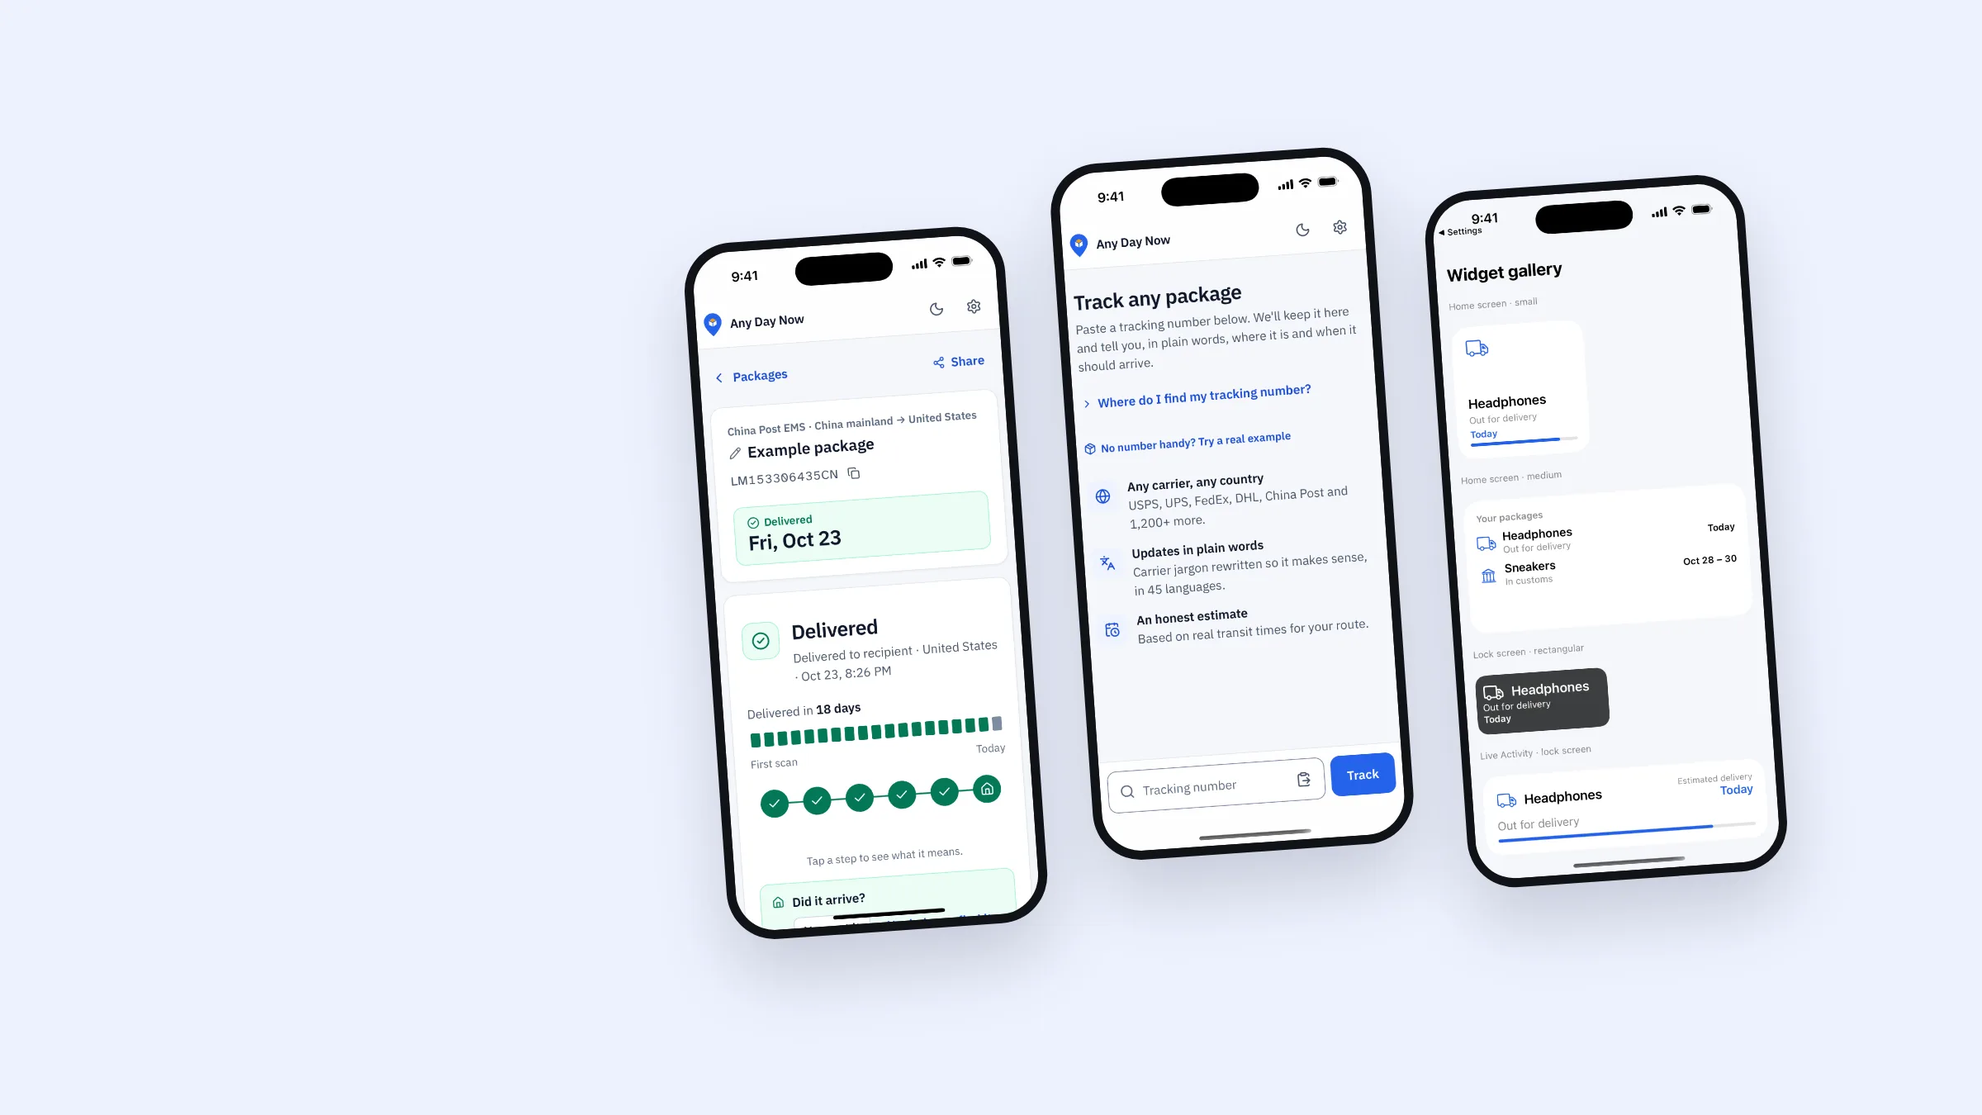
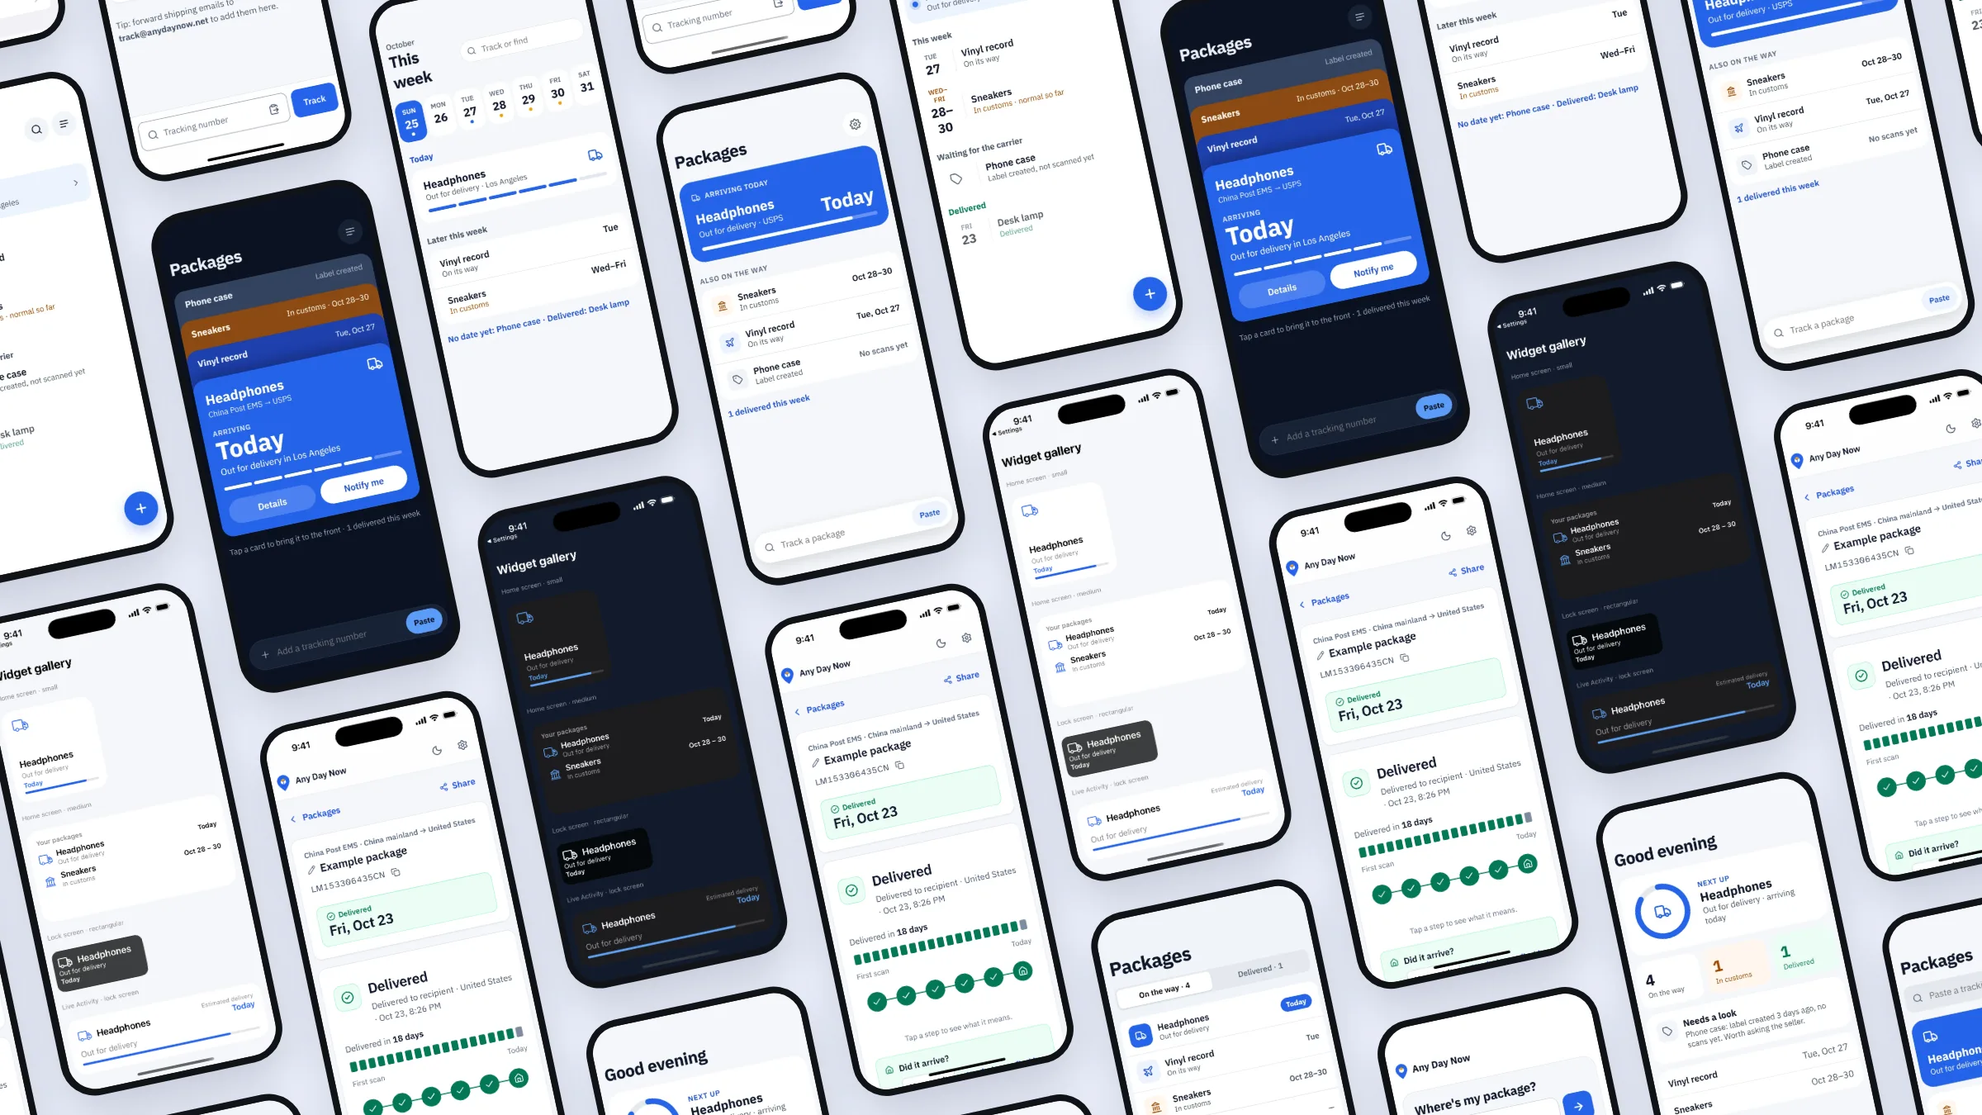
Embed the published FlexiDoc demo and make every cover a tilted wall of screens

diff --git a/work/flexidoc/index.html b/work/flexidoc/index.html
@@ -7,7 +7,7 @@
 <meta name="description" content="How I designed FlexiDoc, an appointment scheduling app for people with agoraphobia: research, personas, empathy maps, wireframes, IA, journey mapping and final screens.">
 <meta property="og:title" content="FlexiDoc case study, Stevie McLane">
 <meta property="og:description" content="How I designed FlexiDoc, an appointment scheduling app for people with agoraphobia: research, personas, empathy maps, wireframes, IA, journey mapping and final screens.">
-<meta property="og:image" content="https://steviemclane.com/assets/img/flexidoc/cover.webp?v=2">
+<meta property="og:image" content="https://steviemclane.com/assets/img/flexidoc/cover.webp?v=3">
 <meta name="theme-color" content="#0b0a10">
 <link rel="icon" type="image/png" sizes="32x32" href="/images/favicon-32.png?v=2">
 <link rel="icon" type="image/png" sizes="16x16" href="/images/favicon-16.png?v=2">
@@ -45,7 +45,7 @@
 
 <main id="main">
   <section class="case-hero">
-    <div class="case-bg cover-flexidoc" aria-hidden="true"><img src="/assets/img/flexidoc/hero-bg.webp?v=2" alt="" width="2400" height="1350" fetchpriority="high"></div>
+    <div class="case-bg cover-flexidoc" aria-hidden="true"><img src="/assets/img/flexidoc/hero-bg.webp?v=3" alt="" width="2400" height="1350" fetchpriority="high"></div>
     <div class="wrap case-hero-inner">
     <a class="back-link" href="/#work"><span aria-hidden="true">&larr;</span> All work</a>
     <h1 class="case-title" data-reveal="load">FlexiDoc</h1>
@@ -389,7 +389,7 @@
       </div>
     </section>
 
-    <!-- 8. Interactive demo (Figma Make; Figma blocks framing, so it opens in a new tab) -->
+    <!-- 8. Interactive demo (published Figma Make site, embedded) -->
     <section class="chapter" id="demo" aria-labelledby="h-demo">
       <div class="chapter-head">
         <div>
@@ -397,14 +397,16 @@
           <h2 id="h-demo" data-reveal="lines">Try it yourself</h2>
         </div>
         <div class="prose" data-reveal="text">
-          <p>Static screens only show so much, so I rebuilt the calendar as an interactive prototype in Figma Make. Flip through the months, tap around the calendar, and try the plus button and the notes field the way a patient would.</p>
-          <p><a class="text-link" href="https://www.figma.com/make/dKmPBFl6OA0ESM7iJeDsq2/Design-Calendar-Personal-Planner?fullscreen=1" target="_blank" rel="noopener">Open the interactive demo<span class="visually-hidden"> (opens in a new tab)</span> <span aria-hidden="true">&nearr;</span></a></p>
+          <p>Static screens only show so much, so I rebuilt the calendar as an interactive prototype in Figma Make. It runs right here: flip through the months, tap around the calendar, and try the plus button and the notes field the way a patient would.</p>
+          <p><a class="text-link" href="https://marsh-stove-48895407.figma.site" target="_blank" rel="noopener">Open the demo full screen<span class="visually-hidden"> (opens in a new tab)</span> <span aria-hidden="true">&nearr;</span></a></p>
         </div>
       </div>
-      <a class="demo-card" href="https://www.figma.com/make/dKmPBFl6OA0ESM7iJeDsq2/Design-Calendar-Personal-Planner?fullscreen=1" target="_blank" rel="noopener" data-reveal="wipe">
-        <img src="/assets/img/flexidoc/demo-poster.webp" alt="The FlexiDoc calendar prototype on an iPhone, showing November with an Upcoming list and a Notes field" width="808" height="1660" loading="lazy" decoding="async">
-        <span class="demo-cta">Open the demo <span aria-hidden="true">&nearr;</span></span>
-      </a>
+      <figure class="demo-card" data-reveal="wipe">
+        <div class="demo-phone">
+          <iframe src="https://marsh-stove-48895407.figma.site" title="FlexiDoc interactive calendar prototype" loading="lazy"></iframe>
+        </div>
+        <figcaption class="asset-caption">Built in Figma Make. Everything inside the phone is interactive.</figcaption>
+      </figure>
     </section>
 
     <!-- 9. Final presentation -->
@@ -457,14 +459,14 @@
     <ul class="more-grid" data-reveal="stack">
       <li>
         <a class="more-link" href="/work/any-day-now/">
-          <div class="work-media cover-anydaynow"><img src="/assets/img/anydaynow/cover.webp?v=2" alt="" width="1600" height="1100" loading="lazy" decoding="async"></div>
+          <div class="work-media cover-anydaynow"><img src="/assets/img/anydaynow/cover.webp?v=3" alt="" width="1600" height="1100" loading="lazy" decoding="async"></div>
           <h3>Any Day Now <span aria-hidden="true">&rarr;</span></h3>
           <p>A package tracker for web, iOS and Android</p>
         </a>
       </li>
       <li>
         <a class="more-link" href="/work/sld/">
-          <div class="work-media cover-sld"><img src="/assets/img/sld/cover.webp?v=2" alt="" width="1600" height="1100" loading="lazy" decoding="async"></div>
+          <div class="work-media cover-sld"><img src="/assets/img/sld/cover.webp?v=3" alt="" width="1600" height="1100" loading="lazy" decoding="async"></div>
           <h3>SLD <span aria-hidden="true">&rarr;</span></h3>
           <p>Brand identity and cover art for a musical artist</p>
         </a>

diff --git a/index.html b/index.html
@@ -7,7 +7,7 @@
 <meta name="description" content="Stevie McLane is a UX designer and creative director studying UX Design at the University of North Texas. Case studies: Any Day Now, FlexiDoc and SLD.">
 <meta property="og:title" content="Stevie McLane, UX Designer">
 <meta property="og:description" content="Case studies in UX research, product design and brand identity.">
-<meta property="og:image" content="https://steviemclane.com/assets/img/flexidoc/cover.webp?v=2">
+<meta property="og:image" content="https://steviemclane.com/assets/img/flexidoc/cover.webp?v=3">
 <meta name="theme-color" content="#0b0a10">
 <link rel="icon" type="image/png" sizes="32x32" href="/images/favicon-32.png?v=2">
 <link rel="icon" type="image/png" sizes="16x16" href="/images/favicon-16.png?v=2">
@@ -75,7 +75,7 @@
             <span class="work-cta">Read the case study</span>
           </div>
           <div class="work-media cover-anydaynow" data-reveal="wipe">
-            <img src="/assets/img/anydaynow/cover.webp?v=2" alt="Three Any Day Now screens on iPhone: a delivered package, the tracking form and the widget gallery" width="1600" height="1100" loading="lazy" decoding="async">
+            <img src="/assets/img/anydaynow/cover.webp?v=3" alt="A tilted wall of Any Day Now screens on iPhone, in light and dark mode" width="1600" height="1100" loading="lazy" decoding="async">
           </div>
         </a>
       </li>
@@ -88,7 +88,7 @@
             <span class="work-cta">Read the case study</span>
           </div>
           <div class="work-media cover-blendwright" data-reveal="wipe">
-            <img src="/assets/img/blendwright/cover.webp" alt="A Blendwright formula label listing ingredient groups with evidence grades, next to a jar filled in matching colored layers" width="1600" height="1100" loading="lazy" decoding="async">
+            <img src="/assets/img/blendwright/cover.webp?v=3" alt="A tilted wall of Blendwright formula labels and blend jars filled in colored layers" width="1600" height="1100" loading="lazy" decoding="async">
           </div>
         </a>
       </li>
@@ -101,7 +101,7 @@
             <span class="work-cta">Read the case study</span>
           </div>
           <div class="work-media cover-flexidoc" data-reveal="wipe">
-            <img src="/assets/img/flexidoc/cover.webp?v=2" alt="Three FlexiDoc screens on iPhone: finding a doctor, the appointment calendar and picking a time" width="1600" height="1100" loading="lazy" decoding="async">
+            <img src="/assets/img/flexidoc/cover.webp?v=3" alt="A tilted wall of FlexiDoc's final screens on iPhone" width="1600" height="1100" loading="lazy" decoding="async">
           </div>
         </a>
       </li>
@@ -114,7 +114,7 @@
             <span class="work-cta">Read the case study</span>
           </div>
           <div class="work-media cover-sld" data-reveal="wipe">
-            <img src="/assets/img/sld/cover.webp?v=2" alt="Three SLD single covers: Heartless, MADE 4 THIS and Bankroll" width="1600" height="1100" loading="lazy" decoding="async">
+            <img src="/assets/img/sld/cover.webp?v=3" alt="A tilted wall of SLD single covers" width="1600" height="1100" loading="lazy" decoding="async">
           </div>
         </a>
       </li>

diff --git a/work/blendwright/index.html b/work/blendwright/index.html
@@ -7,7 +7,7 @@
 <meta name="description" content="How I designed Blendwright, a custom protein powder site built around a formula label: research, design direction, a token-based design system and accessibility results.">
 <meta property="og:title" content="Blendwright case study, Stevie McLane">
 <meta property="og:description" content="How I designed Blendwright, a custom protein powder site built around a formula label: research, design direction, a token-based design system and accessibility results.">
-<meta property="og:image" content="https://steviemclane.com/assets/img/blendwright/cover.webp">
+<meta property="og:image" content="https://steviemclane.com/assets/img/blendwright/cover.webp?v=3">
 <meta name="theme-color" content="#0b0a10">
 <link rel="icon" type="image/png" sizes="32x32" href="/images/favicon-32.png?v=2">
 <link rel="icon" type="image/png" sizes="16x16" href="/images/favicon-16.png?v=2">
@@ -45,7 +45,7 @@
 
 <main id="main">
   <section class="case-hero">
-    <div class="case-bg cover-blendwright" aria-hidden="true"><img src="/assets/img/blendwright/hero-bg.webp" alt="" width="2400" height="1350" fetchpriority="high"></div>
+    <div class="case-bg cover-blendwright" aria-hidden="true"><img src="/assets/img/blendwright/hero-bg.webp?v=3" alt="" width="2400" height="1350" fetchpriority="high"></div>
     <div class="wrap case-hero-inner">
       <a class="back-link" href="/#work"><span aria-hidden="true">&larr;</span> All work</a>
       <h1 class="case-title" data-reveal="load">Blendwright</h1>
@@ -325,8 +325,8 @@
   <section class="more wrap" aria-labelledby="more-title">
     <h2 id="more-title" data-reveal="lines">Read more of my case studies</h2>
     <ul class="more-grid" data-reveal="stack">
-      <li><a class="more-link" href="/work/any-day-now/"><div class="work-media cover-anydaynow"><img src="/assets/img/anydaynow/cover.webp?v=2" alt="" width="1600" height="1100" loading="lazy" decoding="async"></div><h3>Any Day Now <span aria-hidden="true">&rarr;</span></h3><p>A package tracker in plain language, for web, iOS and Android</p></a></li>
-      <li><a class="more-link" href="/work/flexidoc/"><div class="work-media cover-flexidoc"><img src="/assets/img/flexidoc/cover.webp?v=2" alt="" width="1600" height="1100" loading="lazy" decoding="async"></div><h3>FlexiDoc <span aria-hidden="true">&rarr;</span></h3><p>Appointment scheduling for people with agoraphobia</p></a></li>
+      <li><a class="more-link" href="/work/any-day-now/"><div class="work-media cover-anydaynow"><img src="/assets/img/anydaynow/cover.webp?v=3" alt="" width="1600" height="1100" loading="lazy" decoding="async"></div><h3>Any Day Now <span aria-hidden="true">&rarr;</span></h3><p>A package tracker in plain language, for web, iOS and Android</p></a></li>
+      <li><a class="more-link" href="/work/flexidoc/"><div class="work-media cover-flexidoc"><img src="/assets/img/flexidoc/cover.webp?v=3" alt="" width="1600" height="1100" loading="lazy" decoding="async"></div><h3>FlexiDoc <span aria-hidden="true">&rarr;</span></h3><p>Appointment scheduling for people with agoraphobia</p></a></li>
     </ul>
   </section>
 </main>

diff --git a/work/any-day-now/index.html b/work/any-day-now/index.html
@@ -7,7 +7,7 @@
 <meta name="description" content="How I designed, built, audited and launched Any Day Now, a package tracker for web, iOS and Android: audits, concepts, native features and launch videos.">
 <meta property="og:title" content="Any Day Now case study, Stevie McLane">
 <meta property="og:description" content="How I designed, built, audited and launched Any Day Now, a package tracker for web, iOS and Android: audits, concepts, native features and launch videos.">
-<meta property="og:image" content="https://steviemclane.com/assets/img/anydaynow/cover.webp?v=2">
+<meta property="og:image" content="https://steviemclane.com/assets/img/anydaynow/cover.webp?v=3">
 <meta name="theme-color" content="#0b0a10">
 <link rel="icon" type="image/png" sizes="32x32" href="/images/favicon-32.png?v=2">
 <link rel="icon" type="image/png" sizes="16x16" href="/images/favicon-16.png?v=2">
@@ -45,7 +45,7 @@
 
 <main id="main">
   <section class="case-hero">
-    <div class="case-bg cover-anydaynow" aria-hidden="true"><img src="/assets/img/anydaynow/hero-bg.webp?v=2" alt="" width="2400" height="1350" fetchpriority="high"></div>
+    <div class="case-bg cover-anydaynow" aria-hidden="true"><img src="/assets/img/anydaynow/hero-bg.webp?v=3" alt="" width="2400" height="1350" fetchpriority="high"></div>
     <div class="wrap case-hero-inner">
       <a class="back-link" href="/#work"><span aria-hidden="true">&larr;</span> All work</a>
       <h1 class="case-title" data-reveal="load">Any Day Now</h1>
@@ -383,8 +383,8 @@
   <section class="more wrap" aria-labelledby="more-title">
     <h2 id="more-title" data-reveal="lines">Read more of my case studies</h2>
     <ul class="more-grid" data-reveal="stack">
-      <li><a class="more-link" href="/work/blendwright/"><div class="work-media cover-blendwright"><img src="/assets/img/blendwright/cover.webp" alt="" width="1600" height="1100" loading="lazy" decoding="async"></div><h3>Blendwright <span aria-hidden="true">&rarr;</span></h3><p>A custom nutrition builder that shows its work</p></a></li>
-      <li><a class="more-link" href="/work/flexidoc/"><div class="work-media cover-flexidoc"><img src="/assets/img/flexidoc/cover.webp?v=2" alt="" width="1600" height="1100" loading="lazy" decoding="async"></div><h3>FlexiDoc <span aria-hidden="true">&rarr;</span></h3><p>Appointment scheduling for people with agoraphobia</p></a></li>    </ul>
+      <li><a class="more-link" href="/work/blendwright/"><div class="work-media cover-blendwright"><img src="/assets/img/blendwright/cover.webp?v=3" alt="" width="1600" height="1100" loading="lazy" decoding="async"></div><h3>Blendwright <span aria-hidden="true">&rarr;</span></h3><p>A custom nutrition builder that shows its work</p></a></li>
+      <li><a class="more-link" href="/work/flexidoc/"><div class="work-media cover-flexidoc"><img src="/assets/img/flexidoc/cover.webp?v=3" alt="" width="1600" height="1100" loading="lazy" decoding="async"></div><h3>FlexiDoc <span aria-hidden="true">&rarr;</span></h3><p>Appointment scheduling for people with agoraphobia</p></a></li>    </ul>
     </ul>
   </section>
 </main>

diff --git a/work/sld/index.html b/work/sld/index.html
@@ -7,7 +7,7 @@
 <meta name="description" content="Brand identity, logo and cover art for the musical artist SLD: sketches, the final mark, a style guide and fifteen single covers you can play.">
 <meta property="og:title" content="SLD case study, Stevie McLane">
 <meta property="og:description" content="Brand identity, logo and cover art for the musical artist SLD: sketches, the final mark, a style guide and fifteen single covers you can play.">
-<meta property="og:image" content="https://steviemclane.com/assets/img/sld/cover.webp?v=2">
+<meta property="og:image" content="https://steviemclane.com/assets/img/sld/cover.webp?v=3">
 <meta name="theme-color" content="#0b0a10">
 <link rel="icon" type="image/png" sizes="32x32" href="/images/favicon-32.png?v=2">
 <link rel="icon" type="image/png" sizes="16x16" href="/images/favicon-16.png?v=2">
@@ -45,7 +45,7 @@
 
 <main id="main">
   <section class="case-hero">
-    <div class="case-bg cover-sld" aria-hidden="true"><img src="/assets/img/sld/hero-bg.webp?v=2" alt="" width="2400" height="1350" fetchpriority="high"></div>
+    <div class="case-bg cover-sld" aria-hidden="true"><img src="/assets/img/sld/hero-bg.webp?v=3" alt="" width="2400" height="1350" fetchpriority="high"></div>
     <div class="wrap case-hero-inner">
     <a class="back-link" href="/#work"><span aria-hidden="true">&larr;</span> All work</a>
     <h1 class="case-title" data-reveal="load">SLD</h1>
@@ -247,14 +247,14 @@
     <ul class="more-grid" data-reveal="stack">
       <li>
         <a class="more-link" href="/work/any-day-now/">
-          <div class="work-media cover-anydaynow"><img src="/assets/img/anydaynow/cover.webp?v=2" alt="" width="1600" height="1100" loading="lazy" decoding="async"></div>
+          <div class="work-media cover-anydaynow"><img src="/assets/img/anydaynow/cover.webp?v=3" alt="" width="1600" height="1100" loading="lazy" decoding="async"></div>
           <h3>Any Day Now <span aria-hidden="true">&rarr;</span></h3>
           <p>A package tracker for web, iOS and Android</p>
         </a>
       </li>
       <li>
         <a class="more-link" href="/work/flexidoc/">
-          <div class="work-media cover-flexidoc"><img src="/assets/img/flexidoc/cover.webp?v=2" alt="" width="1600" height="1100" loading="lazy" decoding="async"></div>
+          <div class="work-media cover-flexidoc"><img src="/assets/img/flexidoc/cover.webp?v=3" alt="" width="1600" height="1100" loading="lazy" decoding="async"></div>
           <h3>FlexiDoc <span aria-hidden="true">&rarr;</span></h3>
           <p>Appointment scheduling for people with agoraphobia</p>
         </a>

diff --git a/assets/css/site.css b/assets/css/site.css
@@ -1307,9 +1307,9 @@ dialog::backdrop { background: rgba(5, 4, 8, 0.72); }
 .cover-anydaynow { view-transition-name: cover-anydaynow; }
 .cover-blendwright { view-transition-name: cover-blendwright; }
 
-/* FlexiDoc: Figma Make demo. Figma blocks framing, so this is a link card. */
+/* FlexiDoc: the published Figma Make prototype, framed as a phone. */
 .demo-card {
-  margin-top: clamp(40px, 6vw, 72px);
+  margin: clamp(40px, 6vw, 72px) 0 0;
   display: grid;
   justify-items: center;
   gap: 20px;
@@ -1317,12 +1317,17 @@ dialog::backdrop { background: rgba(5, 4, 8, 0.72); }
   background: var(--bg-raised);
   border: 1px solid var(--line);
   border-radius: 6px;
-  text-decoration: none;
-  color: var(--text);
 }
-.demo-card img { width: min(300px, 70vw); height: auto; transition: transform 0.6s var(--ease-out); }
-.demo-card:hover img { transform: translateY(-6px); }
-.demo-cta { font-weight: 600; padding: 10px 20px; border-radius: 999px; background: var(--accent); color: var(--accent-ink); }
+.demo-phone {
+  width: min(390px, 100%, 80vh * 390 / 844);
+  aspect-ratio: 390 / 844;
+  padding: 10px;
+  background: #111318;
+  border-radius: 48px;
+  box-shadow: 0 0 0 1px var(--line-strong), 0 40px 80px -30px rgba(0, 0, 0, 0.8);
+}
+.demo-phone iframe { width: 100%; height: 100%; border: 0; border-radius: 38px; background: #dfe7ee; display: block; }
+.demo-card .asset-caption { text-align: center; }
 
 /* ------------------------------------------------------------------
    Blendwright: comparison tables, decisions, type specimen, label demo.

diff --git a/about/index.html b/about/index.html
@@ -7,7 +7,7 @@
 <meta name="description" content="Stevie McLane is a UX designer and creative director studying UX Design at the University of North Texas. Experience, skills and education.">
 <meta property="og:title" content="About Stevie McLane">
 <meta property="og:description" content="Stevie McLane is a UX designer and creative director studying UX Design at the University of North Texas. Experience, skills and education.">
-<meta property="og:image" content="https://steviemclane.com/assets/img/flexidoc/cover.webp?v=2">
+<meta property="og:image" content="https://steviemclane.com/assets/img/flexidoc/cover.webp?v=3">
 <meta name="theme-color" content="#0b0a10">
 <link rel="icon" type="image/png" sizes="32x32" href="/images/favicon-32.png?v=2">
 <link rel="icon" type="image/png" sizes="16x16" href="/images/favicon-16.png?v=2">

diff --git a/404.html b/404.html
@@ -7,7 +7,7 @@
 <meta name="description" content="This page does not exist.">
 <meta property="og:title" content="Page not found, Stevie McLane">
 <meta property="og:description" content="This page does not exist.">
-<meta property="og:image" content="https://steviemclane.com/assets/img/flexidoc/cover.webp?v=2">
+<meta property="og:image" content="https://steviemclane.com/assets/img/flexidoc/cover.webp?v=3">
 <meta name="theme-color" content="#0b0a10">
 <link rel="icon" type="image/png" sizes="32x32" href="/images/favicon-32.png?v=2">
 <link rel="icon" type="image/png" sizes="16x16" href="/images/favicon-16.png?v=2">

diff --git a/assets/js/site.js b/assets/js/site.js
@@ -512,4 +512,6 @@
   }
 
   addEventListener('load', () => ScrollTrigger.refresh());
+  // Web fonts can land after load and reflow the text, which moves every trigger below.
+  document.fonts.ready.then(() => ScrollTrigger.refresh());
 })();
